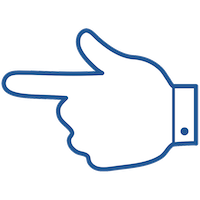
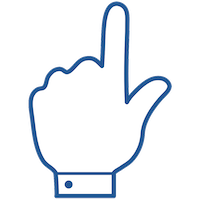
change pointing angle by the location

Changed region(s): [[0.0, 0.0, 1.0, 1.0]]

diff --git a/src/components/Pointing.tsx b/src/components/Pointing.tsx
@@ -7,15 +7,19 @@ interface IProps {
   peerId: string,
   x: number,
   y: number,
+  radian: number,
 }
 
 class Pointing extends React.PureComponent<IProps> {
   render() {
-    const { peerId, x, y } = this.props;
+    const { peerId, x, y, radian } = this.props;
 
+    const angle = radian * 180 / Math.PI;
     const styles = {
       left: `${ x }px`,
-      top: `${ y }px`
+      top: `${ y }px`,
+      transform: `translate(-60%, 0%) rotate(${angle}deg) scale(${angle > 0 ? -1 : 1}, 1)`,
+      transformOrigin: "60% 0%",
     };
 
     return (

diff --git a/src/components/Presenter.tsx b/src/components/Presenter.tsx
@@ -46,7 +46,9 @@ class Presenter extends React.PureComponent<IProps> {
       const peerId = p.peerId;
       const x = video.offsetLeft + video.clientWidth * p.x;
       const y = video.offsetTop + video.clientHeight * p.y;
-      return <PointingComponent key={peerId} peerId={peerId} x={x} y={y} />;
+      const radian = Math.atan2(p.x - 0.5, -(p.y - 0.5));
+
+      return <PointingComponent key={peerId} peerId={peerId} x={x} y={y} radian={radian}/>;
     });
   }
 

diff --git a/src/components/Pointing.css b/src/components/Pointing.css
@@ -4,7 +4,6 @@
   width: 100px;
   height: 100px;
   background-color: transparent;
-  transform: translateY(-40%);
 }
 
 .pointing__image {
